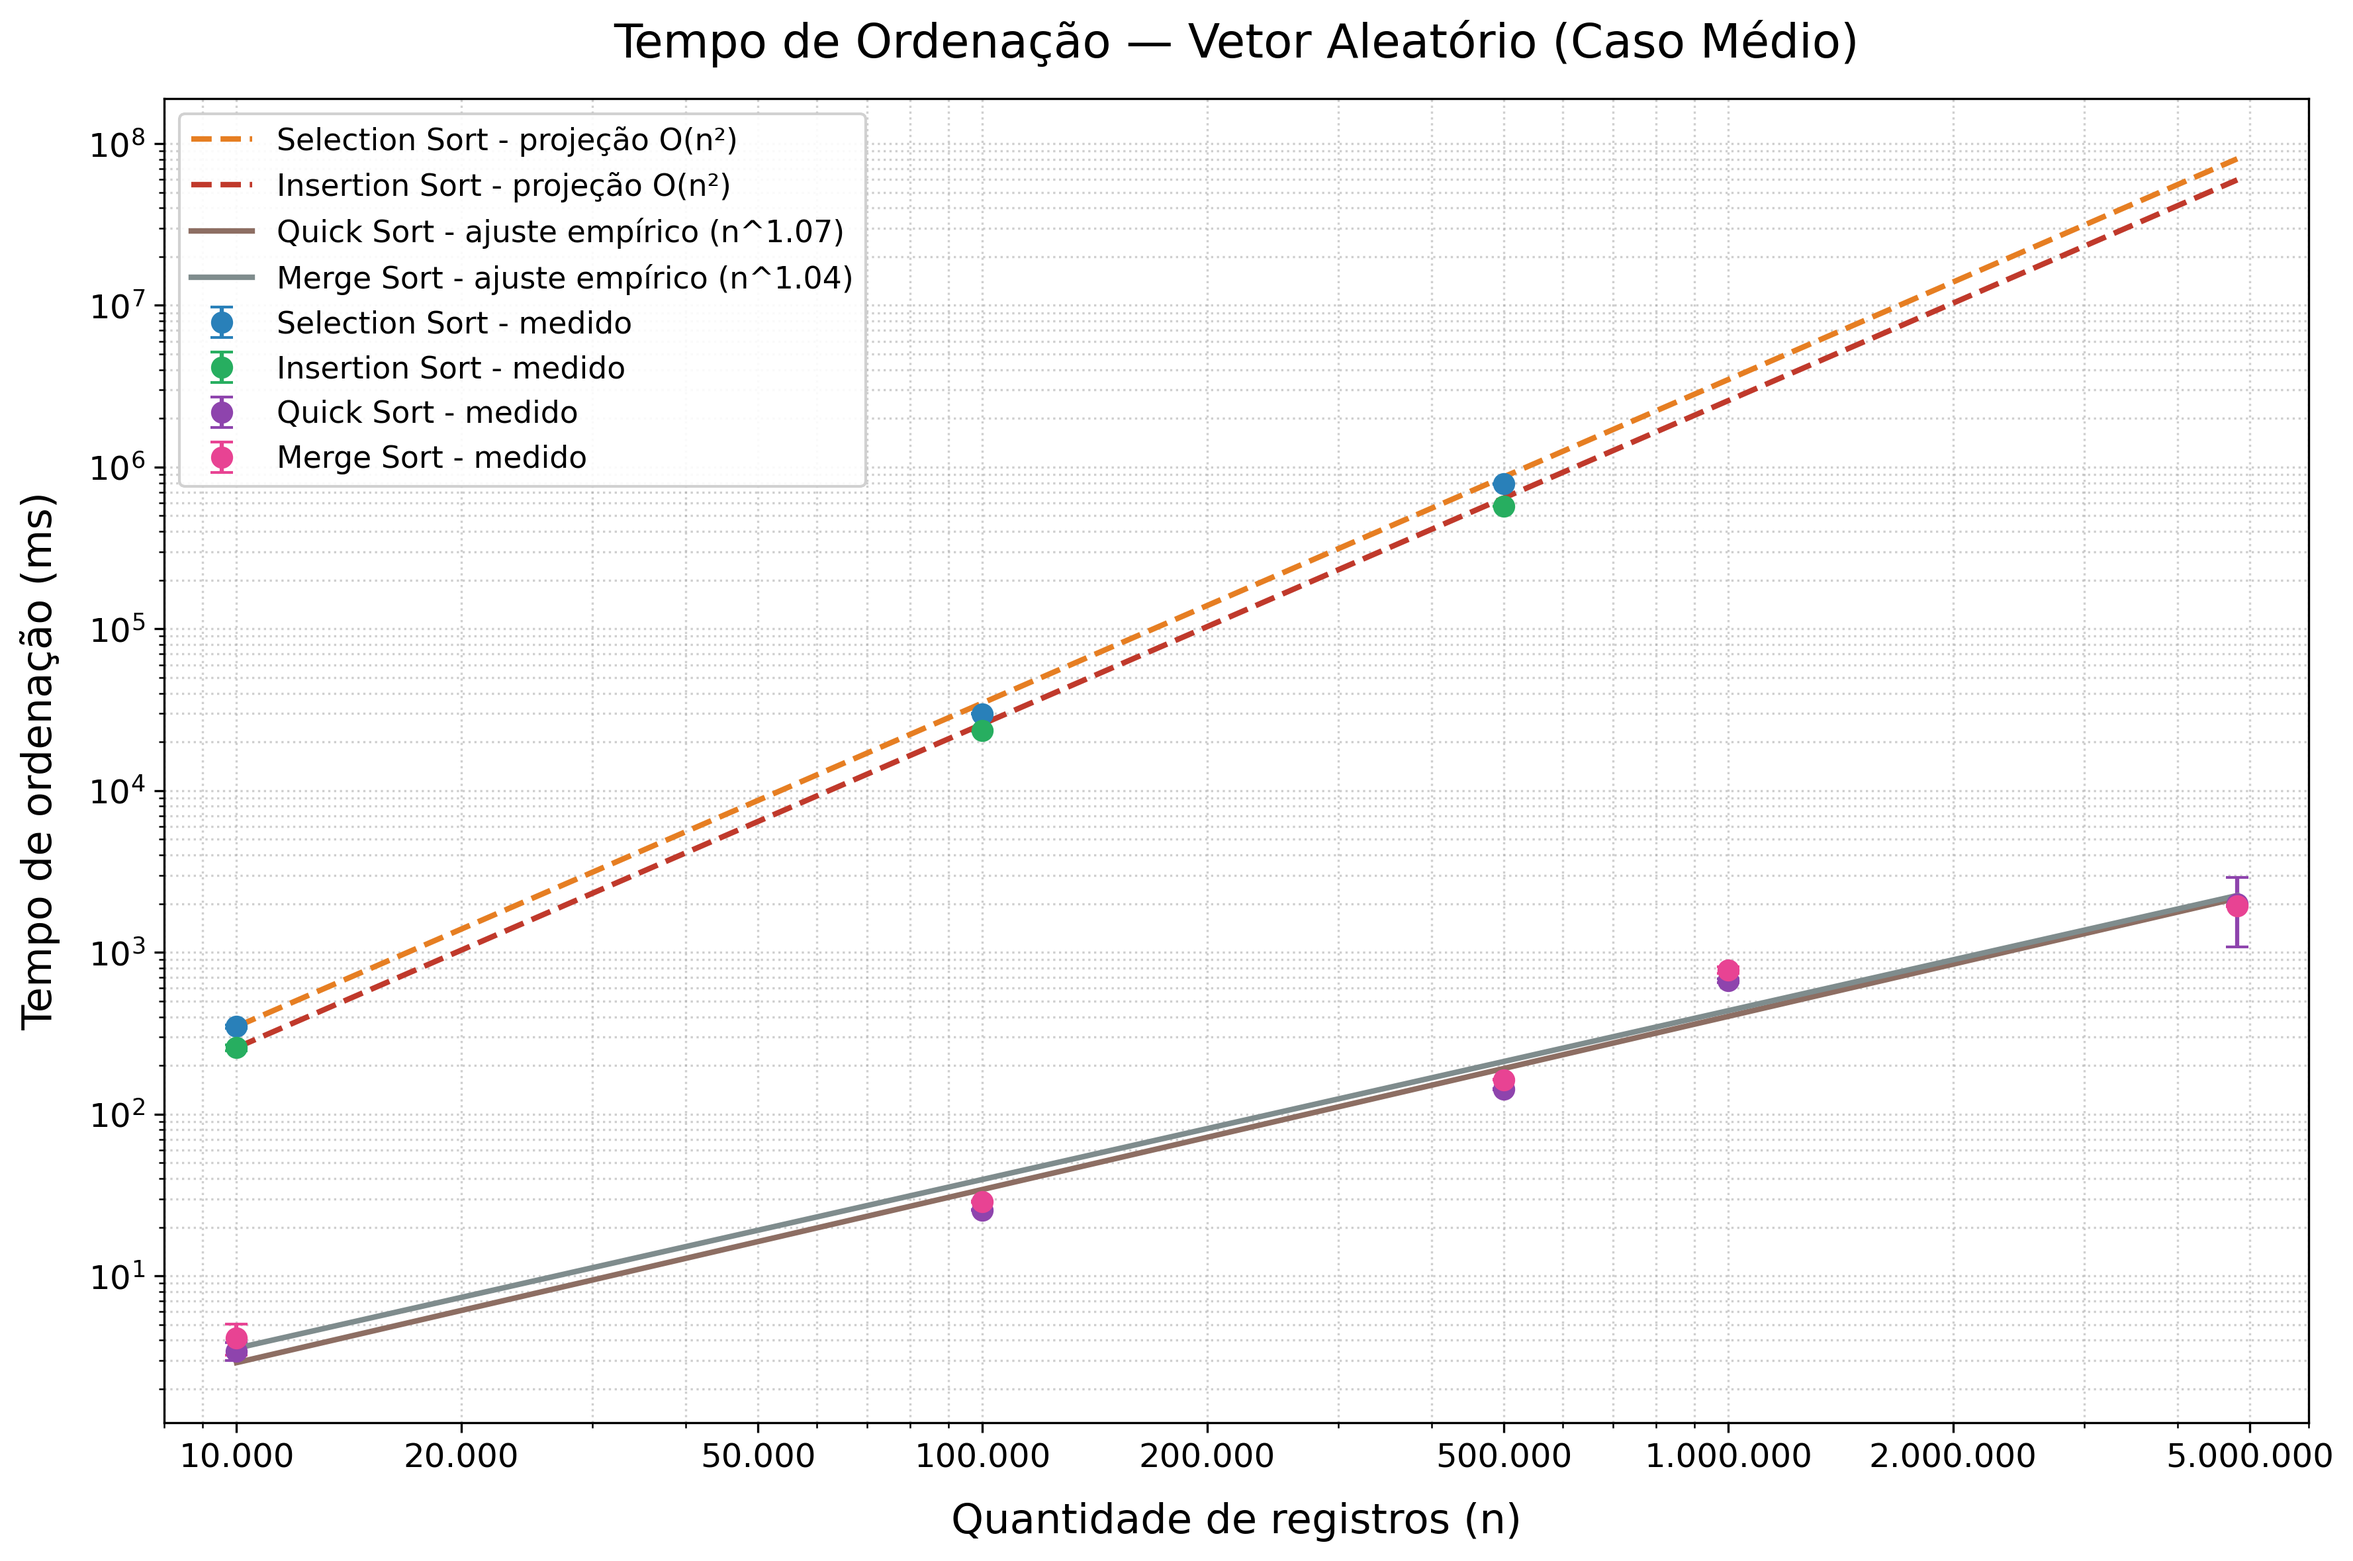
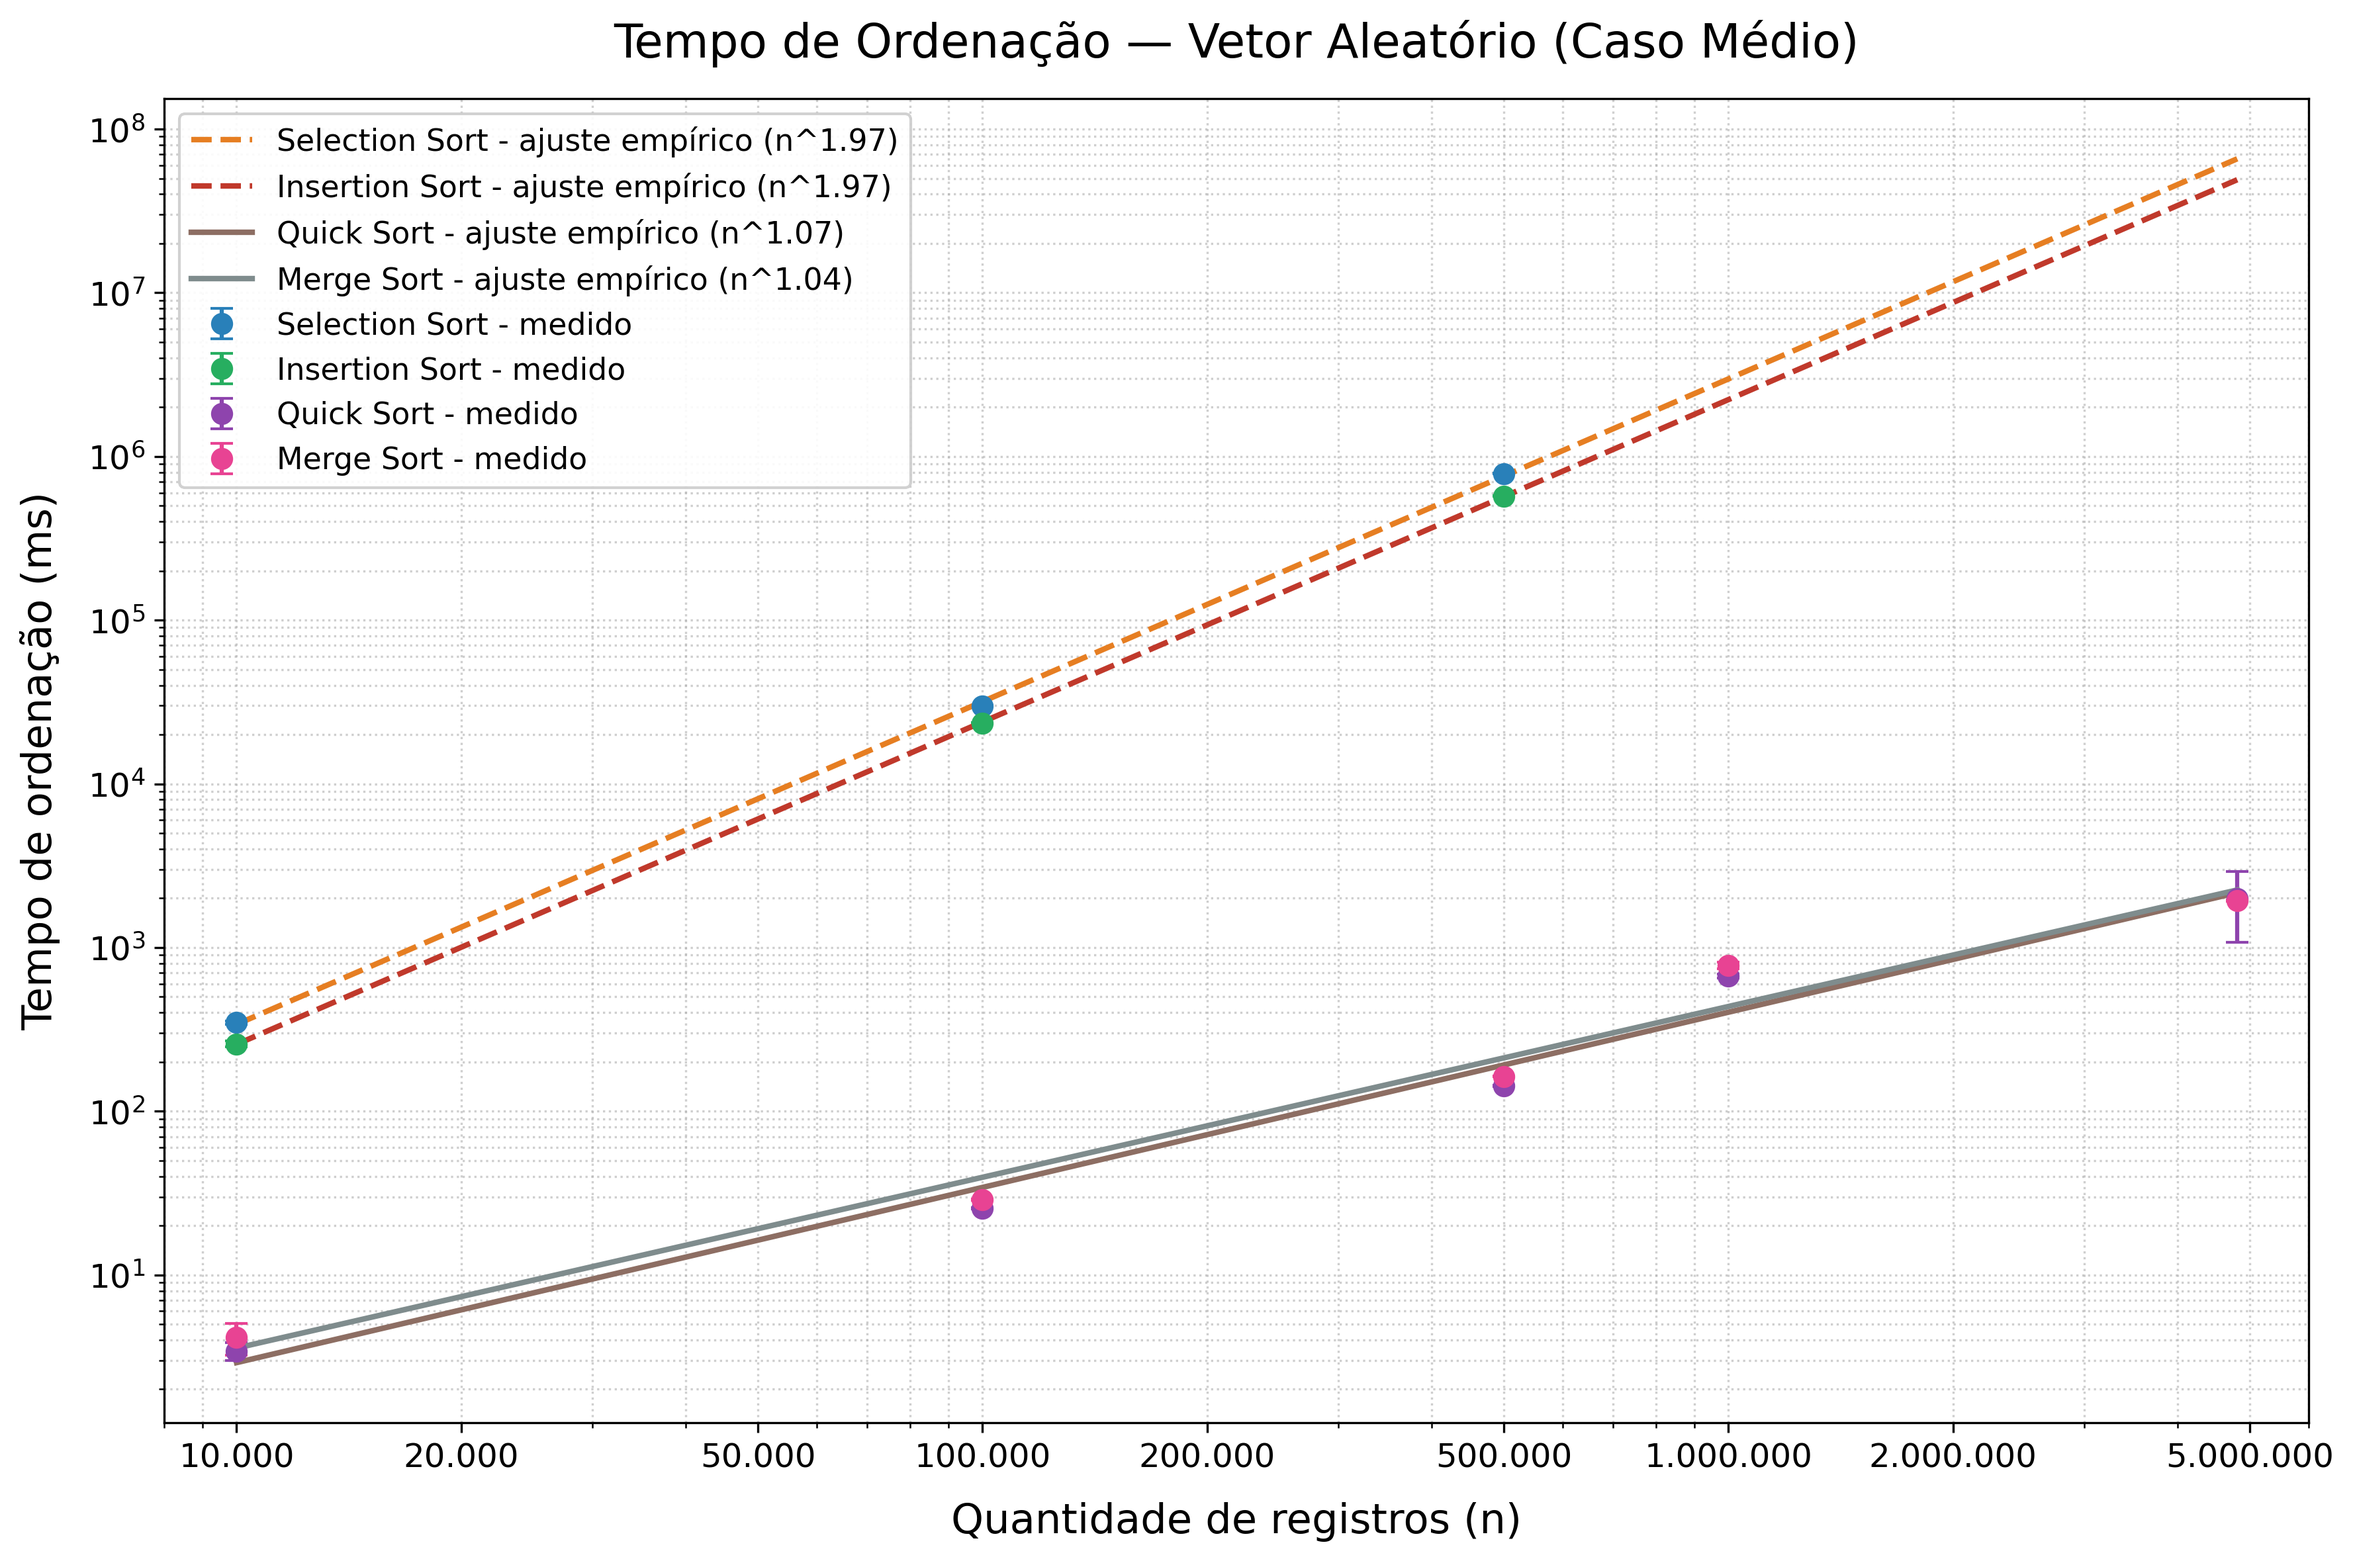
Ajuste no gráfico de aleatórios

diff --git a/graficos/aleatorio.py b/graficos/aleatorio.py
@@ -9,11 +9,6 @@ import matplotlib.pyplot as plt
 # Tempo em milissegundos (média, desvio padrão)
 # ==========================================
 
-quantidades = {
-    "10 mil": 10_000,
-    "1 milhão": 1_000_000
-}
-
 dados = {
     "Selection Sort": {
         10_000: (347.845, 8.085),
@@ -53,19 +48,12 @@ cores_algoritmos = {
 }
 
 # ==========================================
-# FUNÇÕES DE PROJEÇÃO E AJUSTE EMPÍRICO
+# FUNÇÕES DE AJUSTE EMPÍRICO
 # ==========================================
-
-def projetar_quadratico(n, n_base, tempo_base):
-    """
-    Projeção baseada em O(n²).
-    """
-    return tempo_base * (n / n_base) ** 2
 
 def ajustar_potencia(pontos_n, pontos_t):
     """
-    Ajusta T(n) = a * n^b
-    utilizando regressão linear em escala log-log.
+    Ajusta T(n) = a * n^b utilizando regressão linear em escala log-log.
     """
     expoente, log_coeficiente = np.polyfit(
         np.log(pontos_n),
@@ -113,53 +101,24 @@ for algoritmo, resultados in dados.items():
         label=f"{algoritmo} - medido"
     )
 
-    # Selection e Insertion: projeção quadrática
-    if algoritmo in ["Selection Sort", "Insertion Sort"]:
-        tempo_base = resultados[10_000][0]
-        y = projetar_quadratico(
-            x,
-            10_000,
-            tempo_base
-        )
-        ax.plot(
-            x,
-            y,
-            linestyle='--',
-            linewidth=2,
-            color=cores_algoritmos[algoritmo]["curva"],
-            label=f"{algoritmo} - projeção O(n²)"
-        )
-    # Quick e Merge: ajuste empírico
-    else:
-        pontos_validos = [
-            (n, resultado[0])
-            for n, resultado in resultados.items()
-            if resultado is not None
-        ]
+    # Ajuste empírico para TODOS os algoritmos
+    a, b = ajustar_potencia(np.array(pontos_x), np.array(pontos_y))
+    y = projetar_potencia(x, a, b)
 
-        n_medidos = np.array([
-            ponto[0] for ponto in pontos_validos
-        ])
-        tempos_medidos = np.array([
-            ponto[1] for ponto in pontos_validos
-        ])
+    # Linha tracejada para os métodos quadráticos (sinalizando extrapolação além de 500k)
+    ls = '--' if algoritmo in ["Selection Sort", "Insertion Sort"] else '-'
 
-        a, b = ajustar_potencia(
-            n_medidos,
-            tempos_medidos
-        )
-
-        y = projetar_potencia(x, a, b)
-        ax.plot(
-            x,
-            y,
-            linewidth=2,
-            color=cores_algoritmos[algoritmo]["curva"],
-            label=f"{algoritmo} - ajuste empírico (n^{b:.2f})"
-        )
+    ax.plot(
+        x,
+        y,
+        linestyle=ls,
+        linewidth=2,
+        color=cores_algoritmos[algoritmo]["curva"],
+        label=f"{algoritmo} - ajuste empírico (n^{b:.2f})"
+    )
 
 # ==========================================
-# FORMATAÇÃO
+# FORMATAÇÃO DO GRÁFICO
 # ==========================================
 
 ax.set_xscale("log")
@@ -231,5 +190,3 @@ plt.savefig(
     dpi=300,
     bbox_inches="tight"
 )
-
-plt.show()
